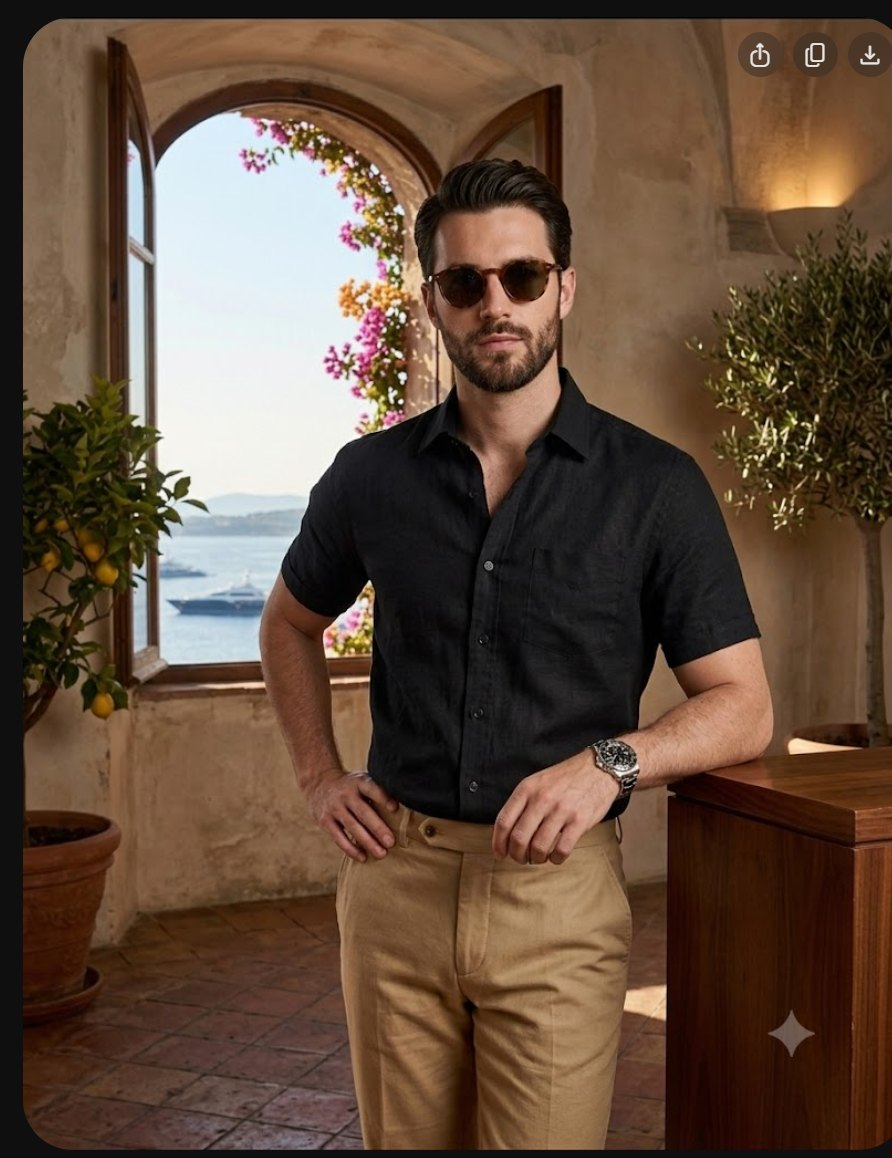
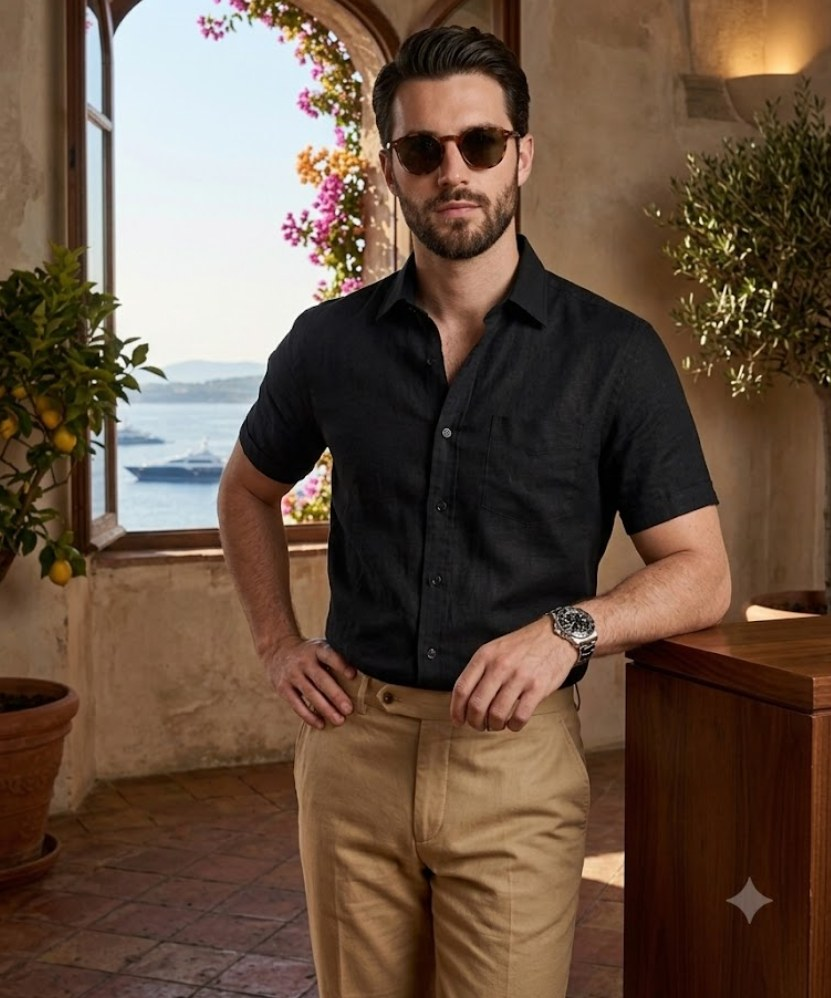
fix: surface the bird mark, and strip generator chrome from the photos
The mark only existed as a favicon, so the brand read as a plain wordmark.
It now sits in the footer at 56px, where its counters have room — the header
keeps the wordmark, since the mark fills in below roughly 40px.

Six of the nine catalog photos had generator UI baked into the pixels: a dark
rounded screenshot frame, share/copy/download icons in the top-right, and on
both shorts shots a literal "BESTSELLER" pill that was rendering next to the
real badge the site draws. Removed by trimming the frame, cropping the top
strip that carried the icons, and insetting to clear the rounded corner arcs.

A faint sparkle watermark remains on plain-shirt-black.jpg. Cloning it out
damaged the surrounding wood badly enough to be worse than the watermark, so
that file was restored from the original and left alone — the fix is a clean
re-export, not retouching.

diff --git a/components/Footer.tsx b/components/Footer.tsx
@@ -8,9 +8,15 @@ export default function Footer() {
 
   return (
     <footer className="site-footer">
-      <div className="wrap">
-        <p>&copy; {new Date().getFullYear()} Murrelet. All rights reserved.</p>
-        <p>Free standard delivery over £100 · Returns accepted within 30 days.</p>
+      <div className="wrap footer-inner">
+        {/* The mark lives here rather than in the header: its counters are
+            fine enough to fill in below ~40px, and the footer can give it
+            room. The header carries the wordmark instead. */}
+        <img className="footer-mark" src="/brand/logo-mark.png" alt="" aria-hidden="true" />
+        <div>
+          <p>&copy; {new Date().getFullYear()} Murrelet. All rights reserved.</p>
+          <p>Free standard delivery over £100 · Returns accepted within 14 days.</p>
+        </div>
       </div>
     </footer>
   );

diff --git a/app/globals.css b/app/globals.css
@@ -1160,3 +1160,29 @@ img {
   object-fit: cover;
   background: var(--card-bg);
 }
+
+/* Footer mark */
+.footer-inner {
+  display: flex;
+  align-items: center;
+  gap: 20px;
+}
+
+.footer-mark {
+  height: 56px;
+  width: auto;
+  flex: none;
+  /* Sits quietly next to the legal text rather than shouting over it. */
+  opacity: 0.85;
+}
+
+@media (max-width: 560px) {
+  .footer-inner {
+    flex-direction: column;
+    align-items: flex-start;
+    gap: 14px;
+  }
+  .footer-mark {
+    height: 44px;
+  }
+}
